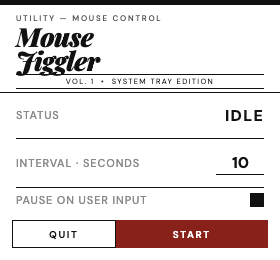
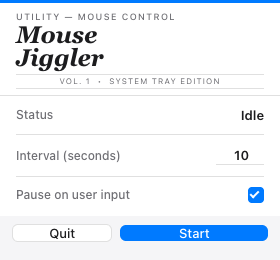
feat(renderer): Apple system fonts and macOS native look and feel

diff --git a/renderer/index.html b/renderer/index.html
@@ -4,31 +4,29 @@
     <meta charset="utf-8" />
     <meta
       http-equiv="Content-Security-Policy"
-      content="default-src 'self'; style-src 'self' 'unsafe-inline' https://fonts.googleapis.com https://fonts.gstatic.com; font-src https://fonts.gstatic.com; script-src 'self'"
+      content="default-src 'self'; style-src 'self' 'unsafe-inline'; script-src 'self'"
     />
     <title>Mouse Jiggler</title>
-    <link rel="preconnect" href="https://fonts.googleapis.com">
-    <link rel="preconnect" href="https://fonts.gstatic.com" crossorigin>
     <style>
-      @import url('https://fonts.googleapis.com/css2?family=Playfair+Display:ital,wght@0,900;1,900&family=DM+Sans:wght@400;500;600;700&display=swap');
-
       *, *::before, *::after { box-sizing: border-box; margin: 0; padding: 0; }
 
       :root {
-        --red: #B3261E;
-        --ink: #111111;
-        --dim: #555555;
-        --ghost: #bbbbbb;
+        --blue:   #007AFF;
+        --ink:    #1c1c1e;
+        --dim:    #6e6e73;
+        --border: rgba(0,0,0,0.12);
+        --bg:     #f5f5f7;
       }
 
       html, body {
         width: 280px;
         height: 260px;
         overflow: hidden;
-        background: #ffffff;
+        background: var(--bg);
         color: var(--ink);
-        font-family: 'DM Sans', system-ui, sans-serif;
-        font-size: 12px;
+        font-family: -apple-system, BlinkMacSystemFont, "SF Pro Text", system-ui, sans-serif;
+        font-size: 13px;
+        -webkit-font-smoothing: antialiased;
       }
 
       body {
@@ -36,58 +34,56 @@
         flex-direction: column;
       }
 
-      /* ── Thick top rule ── */
+      /* ── Top accent bar ── */
       .rule-top {
-        height: 5px;
-        background: var(--ink);
+        height: 3px;
+        background: var(--blue);
         flex-shrink: 0;
       }
 
       /* ── Masthead / header ── */
       .header {
-        padding: 8px 16px 3px;
-        border-bottom: 1px solid var(--ink);
+        padding: 8px 16px 6px;
+        border-bottom: 1px solid var(--border);
         flex-shrink: 0;
+        background: #ffffff;
       }
 
       .pub-label {
-        font-family: 'DM Sans', system-ui, sans-serif;
+        font-size: 9px;
         font-weight: 500;
-        font-size: 8px;
-        letter-spacing: 0.22em;
+        letter-spacing: 0.14em;
         text-transform: uppercase;
         color: var(--dim);
         margin-bottom: 2px;
       }
 
       h1 {
-        font-family: 'Playfair Display', Georgia, serif;
-        font-size: 26px;
-        font-weight: 900;
+        font-family: "New York", "Georgia", serif;
+        font-size: 24px;
+        font-weight: 700;
         font-style: italic;
         color: var(--ink);
-        line-height: 0.92;
-        letter-spacing: -0.02em;
+        line-height: 0.95;
+        letter-spacing: -0.01em;
       }
 
-      /* Tagline locked unit: hairline — text — hairline */
       .masthead-tagline {
-        margin-top: 1px;
+        margin-top: 4px;
       }
 
       .masthead-tagline .hairline {
         display: block;
-        height: 1px;
-        background: var(--ink);
+        height: 0.5px;
+        background: var(--border);
       }
 
       .vol-info {
-        font-family: 'DM Sans', system-ui, sans-serif;
+        font-size: 8px;
         font-weight: 400;
-        font-size: 7.5px;
-        letter-spacing: 0.18em;
+        letter-spacing: 0.12em;
         text-transform: uppercase;
-        color: var(--ink);
+        color: var(--dim);
         text-align: center;
         padding: 2px 0;
       }
@@ -99,65 +95,52 @@
         display: flex;
         flex-direction: column;
         min-height: 0;
+        background: #ffffff;
       }
 
-      /* All label/value rows */
       .status-row,
       .row {
         display: flex;
         align-items: center;
-        padding: 12px 0;
-        border-bottom: 1px solid var(--ink);
+        padding: 11px 0;
+        border-bottom: 0.5px solid var(--border);
       }
 
-      /* STATUS label — receded */
       .status-label {
-        font-family: 'DM Sans', system-ui, sans-serif;
+        font-size: 12px;
         font-weight: 500;
-        font-size: 11px;
-        letter-spacing: 0.08em;
-        text-transform: uppercase;
-        color: #8A8A8A;
+        color: var(--dim);
         display: flex;
         align-items: center;
         gap: 6px;
       }
 
-      /* Red 2×8px bullet beside STATUS label when running */
+      /* Blue dot when running */
       .status-row:has(#status.on) .status-label::before {
         content: '';
         display: inline-block;
-        width: 2px;
-        height: 8px;
-        background: var(--red);
+        width: 7px;
+        height: 7px;
+        border-radius: 50%;
+        background: var(--blue);
         flex-shrink: 0;
       }
 
-      /* Status value — dominant */
       #status {
-        font-family: 'DM Sans', system-ui, sans-serif;
-        font-size: 16px;
-        font-weight: 700;
-        letter-spacing: 0.08em;
-        text-transform: uppercase;
+        font-size: 13px;
+        font-weight: 600;
         margin-left: auto;
-        color: #111;
+        color: var(--ink);
       }
 
-      #status.off { color: #111; }
-      #status.on  { color: #111; }
+      #status.on { color: var(--blue); }
 
-      /* Row labels — receded */
       .row .row-label {
-        font-family: 'DM Sans', system-ui, sans-serif;
+        font-size: 12px;
         font-weight: 500;
-        font-size: 11px;
-        letter-spacing: 0.08em;
-        text-transform: uppercase;
-        color: #8A8A8A;
+        color: var(--dim);
       }
 
-      /* Right-rail wrapper for values */
       .row-value {
         margin-left: auto;
         display: flex;
@@ -168,20 +151,21 @@
         width: 48px;
         background: transparent;
         border: none;
-        border-bottom: 1px solid var(--ink);
+        border-bottom: 1px solid var(--border);
         border-radius: 0;
-        color: #111;
-        font-family: 'DM Sans', system-ui, sans-serif;
-        font-weight: 700;
-        font-size: 16px;
+        color: var(--ink);
+        font-family: -apple-system, BlinkMacSystemFont, "SF Pro Text", system-ui, sans-serif;
+        font-weight: 600;
+        font-size: 13px;
         padding: 1px 0;
         outline: none;
         text-align: right;
+        -webkit-font-smoothing: antialiased;
       }
 
       input[type='number']:focus {
-        border-bottom-color: #000;
-        border-bottom-width: 2px;
+        border-bottom-color: var(--blue);
+        border-bottom-width: 1.5px;
       }
 
       /* Hide native checkbox */
@@ -193,82 +177,95 @@
         pointer-events: none;
       }
 
-      /* Custom checkbox via label pseudo-element */
+      /* macOS-style rounded checkbox */
       .checkbox-label {
         display: inline-block;
-        width: 14px;
-        height: 14px;
-        border: 1px solid #111;
-        border-radius: 0;
-        background: transparent;
+        width: 16px;
+        height: 16px;
+        border: 1.5px solid var(--border);
+        border-radius: 4px;
+        background: #f0f0f0;
         cursor: pointer;
         flex-shrink: 0;
         position: relative;
+        transition: background 0.1s, border-color 0.1s;
       }
 
       input[type='checkbox']:checked + .checkbox-label {
-        background: #111;
+        background: var(--blue);
+        border-color: var(--blue);
+      }
+
+      input[type='checkbox']:checked + .checkbox-label::after {
+        content: '';
+        position: absolute;
+        left: 3px;
+        top: 1px;
+        width: 5px;
+        height: 9px;
+        border: 2px solid #fff;
+        border-top: none;
+        border-left: none;
+        transform: rotate(45deg);
       }
 
       /* ── Pause row ── */
       .pause-row {
         display: flex;
         align-items: center;
-        height: 32px;
-        margin-bottom: 8px;
+        height: 36px;
         padding: 0;
       }
 
       .pause-row .row-label {
-        font-family: 'DM Sans', system-ui, sans-serif;
+        font-size: 12px;
         font-weight: 500;
-        font-size: 11px;
-        letter-spacing: 0.08em;
-        text-transform: uppercase;
-        color: #8A8A8A;
+        color: var(--dim);
       }
 
       /* ── Button row ── */
       .btn-row {
-        height: 40px;
+        height: 44px;
         display: flex;
-        align-items: stretch;
-        padding: 0 12px 12px;
+        align-items: center;
+        padding: 0 12px 10px;
+        gap: 8px;
         flex-shrink: 0;
+        background: var(--bg);
       }
 
       button {
-        font-family: 'DM Sans', system-ui, sans-serif;
-        font-weight: 600;
-        font-size: 10px;
-        letter-spacing: 0.16em;
-        text-transform: uppercase;
-        border-radius: 0;
+        font-family: -apple-system, BlinkMacSystemFont, "SF Pro Text", system-ui, sans-serif;
+        font-weight: 500;
+        font-size: 13px;
+        border-radius: 6px;
         cursor: pointer;
-        transition: background 0.15s, color 0.15s;
+        transition: opacity 0.1s;
+        -webkit-font-smoothing: antialiased;
       }
+
+      button:active { opacity: 0.75; }
 
       #quit {
-        flex: 40;
-        background: transparent;
-        color: #111;
-        border: 1px solid #111;
-        margin-right: 0;
+        flex: 4;
+        background: #ffffff;
+        color: var(--ink);
+        border: 1px solid var(--border);
       }
 
-      #quit:hover {
-        background: #f5f5f5;
-      }
+      #quit:hover { background: #ebebeb; }
 
       #toggle {
-        flex: 60;
-        background: #111;
+        flex: 6;
+        background: var(--blue);
         color: #fff;
         border: none;
       }
 
-      #toggle:hover {
-        background: var(--red);
+      #toggle:hover { opacity: 0.85; }
+
+      #toggle.running {
+        background: #ff3b30;
       }
     </style>
   </head>
@@ -292,14 +289,14 @@
       </div>
 
       <div class="row">
-        <span class="row-label">Interval · Seconds</span>
+        <span class="row-label">Interval (seconds)</span>
         <div class="row-value">
           <input id="interval" type="number" min="1" max="3600" step="1" value="10">
         </div>
       </div>
 
       <div class="pause-row">
-        <span class="row-label">Pause on User Input</span>
+        <span class="row-label">Pause on user input</span>
         <div class="row-value">
           <input id="pause" type="checkbox" checked>
           <label class="checkbox-label" for="pause"></label>
